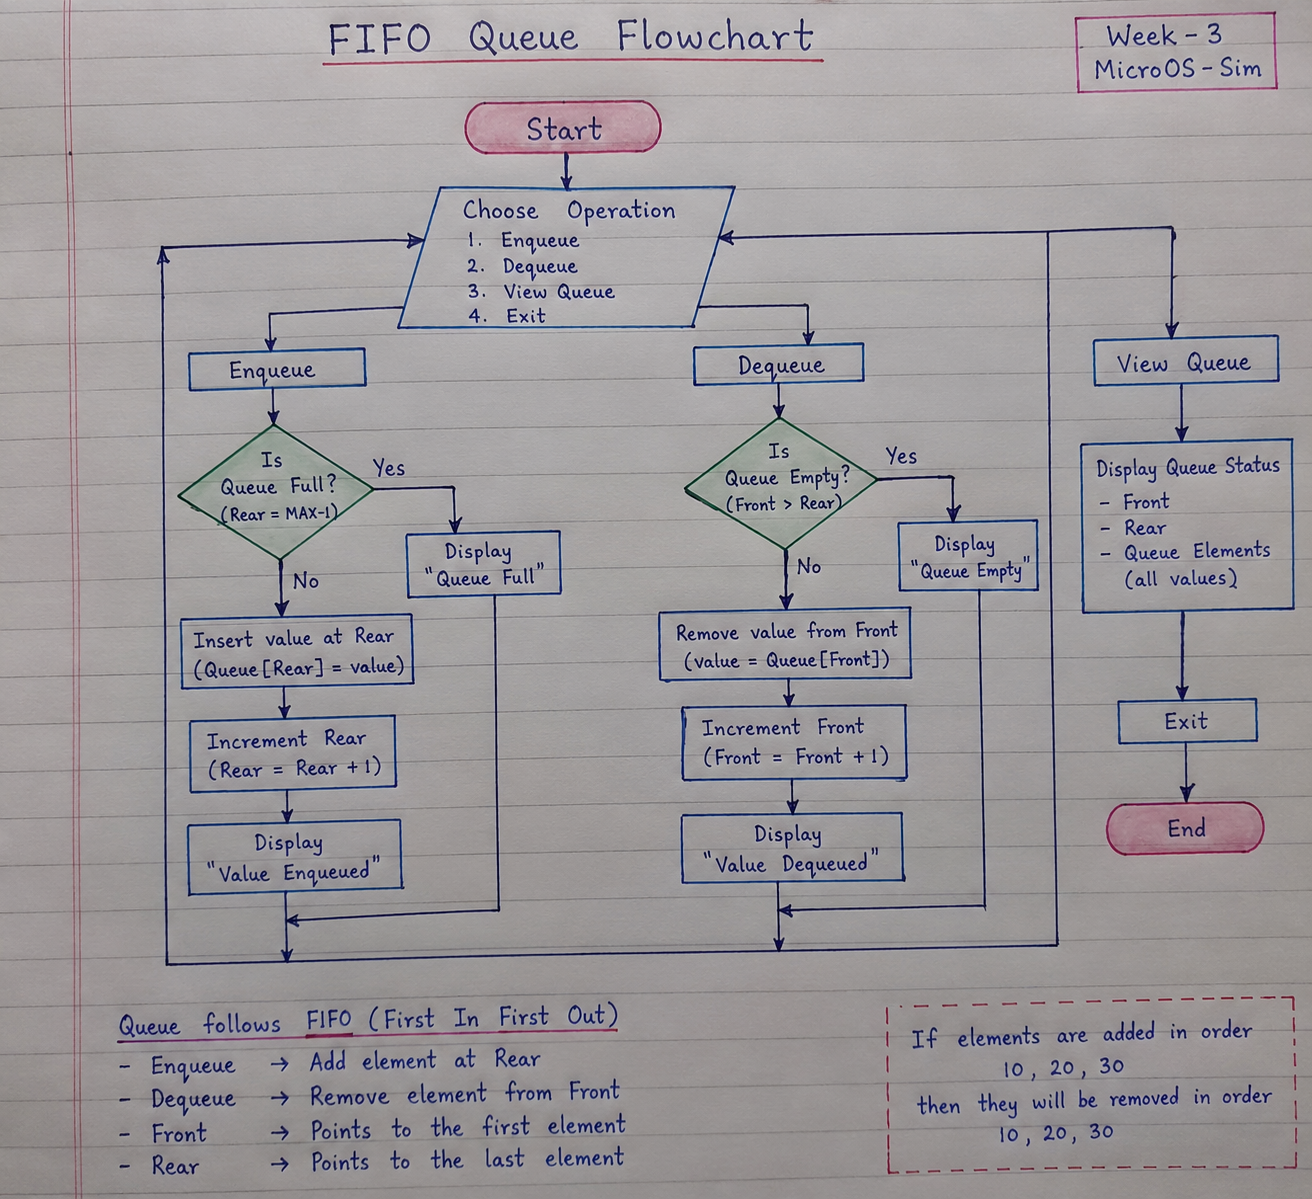
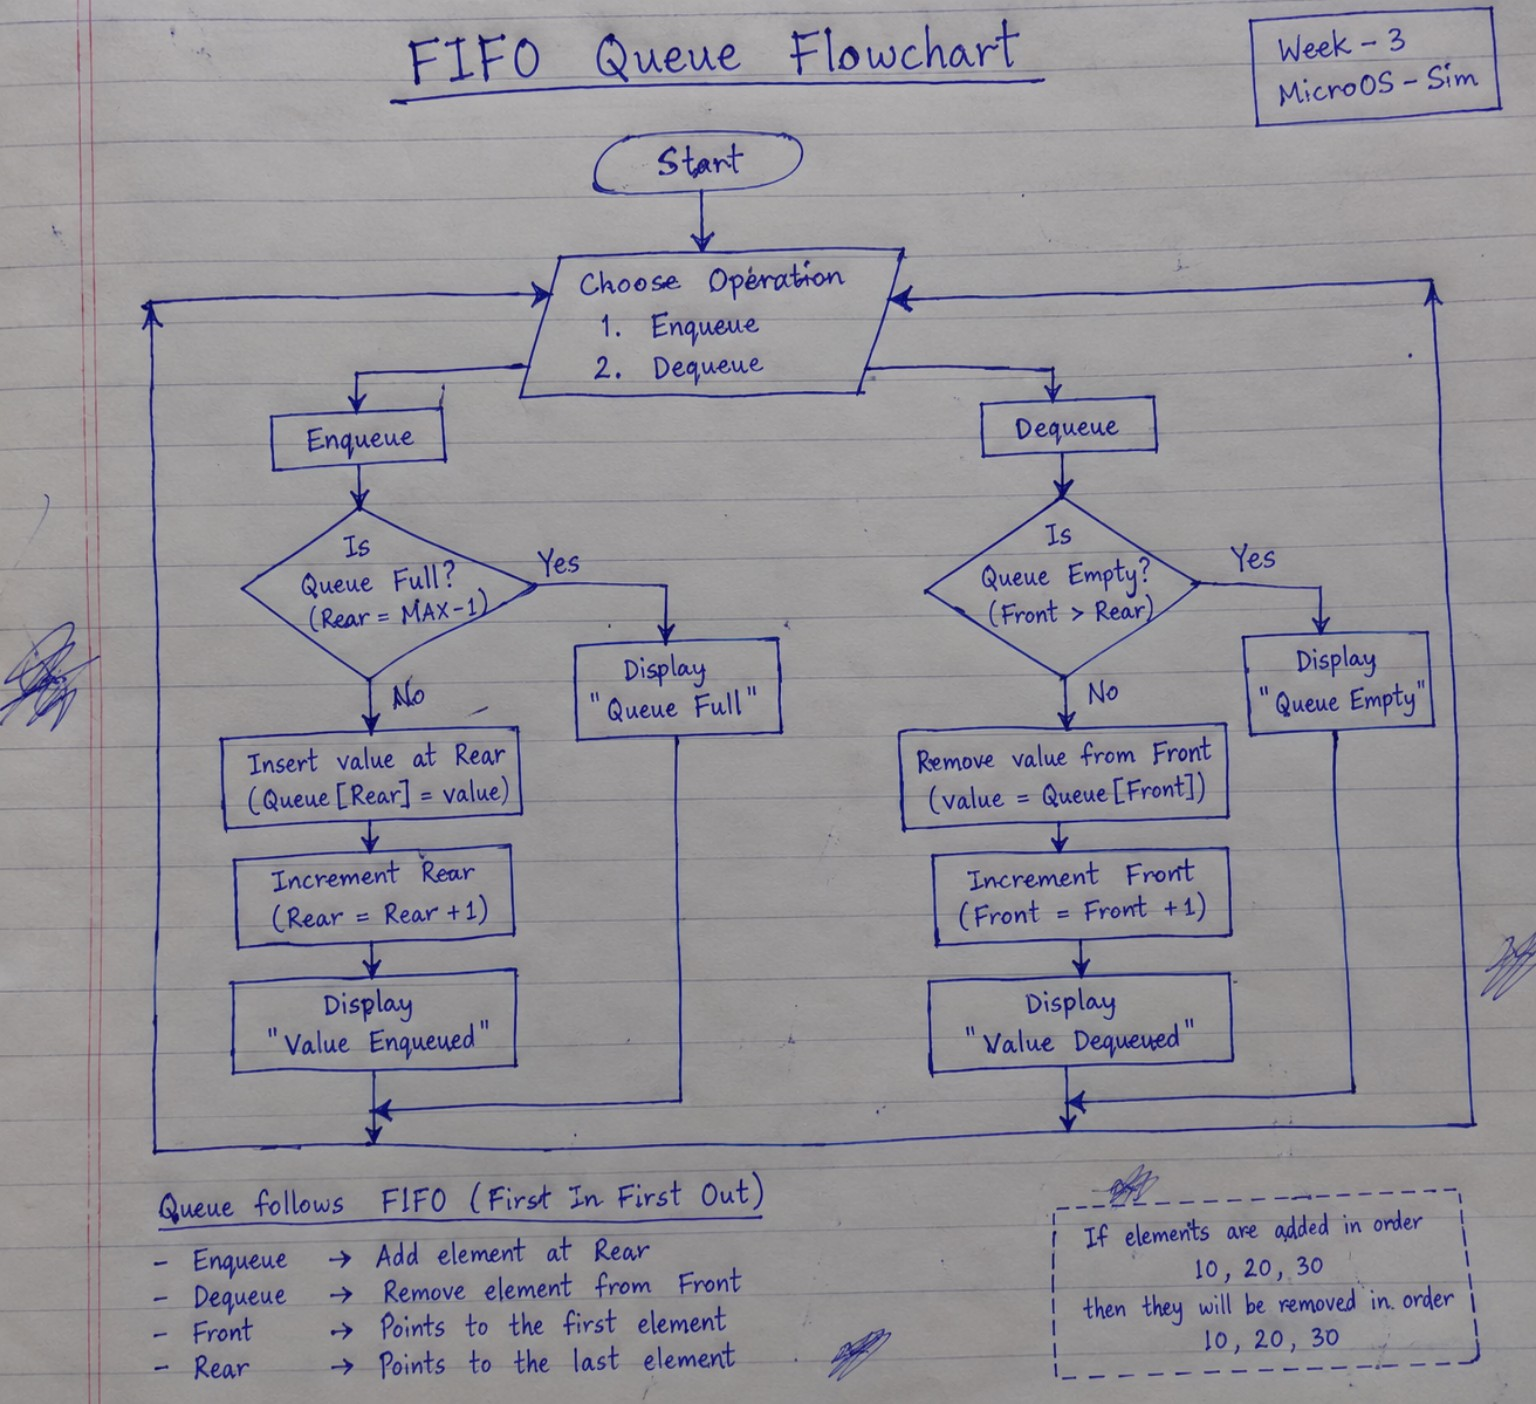
Update Week 3 files

diff --git a/tests/QueueTest.java b/tests/QueueTest.java
@@ -1,0 +1,14 @@
+public class QueueTest {
+    public static void main(String[] args) {
+        Queue queue = new Queue(3);
+        queue.enqueue(10); queue.enqueue(20); queue.enqueue(30);
+        if (!queue.isFull()) throw new AssertionError("Full condition failed");
+        if (queue.dequeue() != 10) throw new AssertionError("FIFO #1 failed");
+        if (queue.dequeue() != 20) throw new AssertionError("FIFO #2 failed");
+        if (queue.dequeue() != 30) throw new AssertionError("FIFO #3 failed");
+        if (!queue.isEmpty()) throw new AssertionError("Empty condition failed");
+        System.out.println("TC05 Enqueue / Full : PASS");
+        System.out.println("TC06 Dequeue / FIFO : PASS");
+        System.out.println("TC07 Empty condition : PASS");
+    }
+}

diff --git a/tests/StackTest.java b/tests/StackTest.java
@@ -1,0 +1,14 @@
+public class StackTest {
+    public static void main(String[] args) {
+        CPU cpu = new CPU();
+        Memory memory = new Memory();
+        Stack stack = new Stack(memory, cpu);
+        stack.push(0x10);
+        stack.push(0x20);
+        if (stack.pop() != 0x20) throw new AssertionError("LIFO #1 failed");
+        if (stack.pop() != 0x10) throw new AssertionError("LIFO #2 failed");
+        if (cpu.getSP() != 0x07) throw new AssertionError("SP failed");
+        System.out.println("TC03 PUSH/POP LIFO : PASS");
+        System.out.println("TC04 Stack Pointer : PASS");
+    }
+}

diff --git a/tests/MemoryTest.java b/tests/MemoryTest.java
@@ -1,0 +1,11 @@
+public class MemoryTest {
+    public static void main(String[] args) {
+        Memory memory = new Memory();
+        memory.writeData(10, 0xAB);
+        if (memory.readData(10) != 0xAB) throw new AssertionError("Read/Write failed");
+        memory.reset();
+        if (memory.readData(10) != 0) throw new AssertionError("Reset failed");
+        System.out.println("TC01 Memory Write/Read : PASS");
+        System.out.println("TC02 Memory Reset      : PASS");
+    }
+}

diff --git a/WEEK-3 README.md b/WEEK-3 README.md
@@ -1,53 +1,23 @@
-# STC89C52 MicroOS Simulator – Week 3
+# Week 3 – STC89C52 Microcontroller Simulator
 
-Week 3 enhances the completed Week 2 simulator with **Memory, Stack and FIFO Queue** functionality. Existing Week 2 instructions are retained; this README focuses on the four new Week 3 instructions and how they execute in our simulator.
+Week 3 adds **Memory Read/Write, Stack and FIFO Queue** to the Week 2 simulator. The old instructions are still supported.
 
-## Week 3 New Functionality
+## New Instructions
 
-- Memory Read/Write and reset support
-- Stack Pointer (SP)
-- PUSH and POP operations
-- Fixed-size FIFO Queue
-- ENQUEUE and DEQUEUE operations
-- Empty/full handling and status updates
-- UI display for Memory, Stack/SP and Queue
-- Queue flowchart
-- Processor-specific Assembly validation
-- Week 3 testing and documentation
+### PUSH
+Adds a value to the top of the stack and updates the Stack Pointer (SP).
 
----
-
-# New Week 3 Instructions
-
-## 1. PUSH
-
-### Definition
-`PUSH` adds a value to the **top of the Stack**. The Stack Pointer (SP) is updated so that it points to the new top of the stack.
-
-### Example
 ```text
 MOV A,#10
 PUSH A
 END
 ```
 
-### How it executes in our simulator
-1. `MOV A,#10` places `10` in the accumulator.
-2. The CPU reads and executes `PUSH A`.
-3. The value `10` is stored on the Stack.
-4. SP is updated to the new stack position.
-5. The UI/trace shows the updated Stack and SP.
+When the program runs, `10` is stored in the stack and SP changes to the new top position.
 
-![PUSH output](images/week3-instructions/PUSH-POP.png)
+### POP
+Removes the top value from the stack. This follows **LIFO (Last In, First Out)**.
 
----
-
-## 2. POP
-
-### Definition
-`POP` removes/retrieves the value from the **top of the Stack**. After the operation, SP is updated to the previous stack position.
-
-### Example
 ```text
 MOV A,#10
 PUSH A
@@ -58,30 +28,11 @@ POP R1
 END
 ```
 
-### How it executes in our simulator
-1. `10` is pushed onto the Stack.
-2. `20` is pushed after it, so `20` becomes the top value.
-3. `POP R0` removes the top value and stores `20` in `R0`.
-4. `POP R1` removes the next value and stores `10` in `R1`.
-5. SP is updated after each POP.
-6. The result demonstrates **LIFO – Last-In, First-Out**.
+Result: `R0 = 20`, `R1 = 10`.
 
-Expected result:
-```text
-R0 = 14H (20)
-R1 = 0AH (10)
-```
+### ENQUEUE
+Adds a value to the rear of the FIFO queue.
 
-![POP output](images/week3-instructions/PUSH-POP.png)
-
----
-
-## 3. ENQUEUE
-
-### Definition
-`ENQUEUE` adds a new value to the **rear of the FIFO Queue**.
-
-### Example
 ```text
 ENQUEUE #10
 ENQUEUE #20
@@ -89,30 +40,11 @@ ENQUEUE #30
 END
 ```
 
-### How it executes in our simulator
-1. The simulator reads `ENQUEUE #10`.
-2. `10` is inserted at the rear of the Queue.
-3. `20` is then inserted after `10`.
-4. `30` is inserted after `20`.
-5. Queue status and contents are updated in the UI.
+Queue becomes: `10 → 20 → 30`.
 
-Queue state:
-```text
-FRONT → [10] [20] [30] ← REAR
-```
+### DEQUEUE
+Removes a value from the front of the FIFO queue. This follows **FIFO (First In, First Out)**.
 
-If the Queue is full, the enqueue operation is rejected and the Queue status reports the full condition.
-
-![ENQUEUE output](images/week3-instructions/ENQUEUE-DEQUEUE.png)
-
----
-
-## 4. DEQUEUE
-
-### Definition
-`DEQUEUE` removes a value from the **front of the FIFO Queue**.
-
-### Example
 ```text
 ENQUEUE #10
 ENQUEUE #20
@@ -123,135 +55,60 @@ DEQUEUE A
 END
 ```
 
-### How it executes in our simulator
-1. `10`, `20` and `30` are inserted into the Queue in that order.
-2. `DEQUEUE R0` removes the front value `10` and stores it in `R0`.
-3. `DEQUEUE R1` removes `20` and stores it in `R1`.
-4. `DEQUEUE A` removes `30` and stores it in the accumulator.
-5. Queue contents and status are updated after every operation.
-6. The result demonstrates **FIFO – First-In, First-Out**.
+Result: `R0 = 10`, `R1 = 20`, `A = 30`.
 
-Expected result:
-```text
-R0 = 0AH (10)
-R1 = 14H (20)
-A  = 1EH (30)
+## How to Run in VS Code
+
+Open the project folder in VS Code and open the terminal.
+
+### Run the simulator
+
+```bash
+javac src/*.java
+java -cp src Main
 ```
 
-![DEQUEUE output](images/week3-instructions/ENQUEUE-DEQUEUE.png)
+### Run the Week 3 tests
 
----
-
-# PUSH/POP vs ENQUEUE/DEQUEUE
-
-| Stack | Queue |
-|---|---|
-| `PUSH` adds at the top | `ENQUEUE` adds at the rear |
-| `POP` removes from the top | `DEQUEUE` removes from the front |
-| Follows LIFO | Follows FIFO |
-| Uses Stack Pointer (SP) | Uses front/rear queue positions |
-
----
-
-# How to Execute Week 3 Instructions in the Project
-
-1. Open the simulator using the normal Java run command.
-2. Enter the Assembly/program instructions in the **Source Editor**.
-3. Use **Run** to execute the complete program, or **Step** to execute instructions one at a time.
-4. The simulator parses the instruction and sends it through the CPU/simulator execution flow.
-5. For `PUSH`/`POP`, the Stack and SP are updated.
-6. For `ENQUEUE`/`DEQUEUE`, the FIFO Queue and its status are updated.
-7. The updated state is shown in the UI and execution trace.
-8. Use **Reset** to clear the current execution state before another test.
-
-### Example: Testing FIFO
-
-Enter:
-```text
-ENQUEUE #10
-ENQUEUE #20
-ENQUEUE #30
-DEQUEUE R0
-DEQUEUE R1
-DEQUEUE A
-END
+```bash
+javac src/*.java tests/Week3MemoryStackQueueTest.java
+java -cp src:tests Week3MemoryStackQueueTest
 ```
 
-Run the program.
+On Windows, use `;` instead of `:` in the classpath:
 
-The expected output is:
-```text
-First dequeue  → 10
-Second dequeue → 20
-Third dequeue  → 30
+```bat
+java -cp src;tests Week3MemoryStackQueueTest
 ```
 
-If the simulator produces the same order, the FIFO implementation is working correctly.
+### Using the simulator
 
----
+1. Enter the Assembly program in the top-left editor.
+2. Click **LOAD**.
+3. Use **STEP** to execute one instruction at a time, or **RUN** to execute the program.
+4. Check the CPU/Stack/FIFO Queue state and execution trace.
+5. Use **RESET** before running another test.
 
-# Queue Flowchart
+## Queue Flowchart
 
-The Week 3 flowchart must include:
+The handwritten Queue flowchart used for Week 3:
 
-- Start
-- Enqueue operation
-- Full condition
-- Dequeue operation
-- Empty condition
-- Queue status/update
-- End
+![Handwritten FIFO Queue Flowchart](images/week3-flowchart/queue-flowchart-handwritten.png)
 
-The detailed flow is documented in [`Docs/Week-3/QUEUE_FLOWCHART.md`](Docs/Week-3/QUEUE_FLOWCHART.md). The final handwritten flowchart evidence is included below.
+It covers Enqueue, Dequeue, Queue Full, Queue Empty, status/update and the FIFO order.
 
-![Handwritten Queue Flowchart](images/week3-flowchart/queue-flowchart-handwritten.png)
+## Queue Assembly Validation
 
----
-
-# Assembly Validation
-
-The processor-specific Queue validation program is available at:
+Validation program:
 
 `programs/week3_queue_validation.txt`
 
-It demonstrates multiple Enqueue and Dequeue operations and checks the expected FIFO order against the actual simulator result.
+It performs multiple Enqueue and Dequeue operations and checks that values leave the queue in the same order they entered.
 
----
+## Week 3 Documentation
 
-# Week 3 Testing
-
-Week 3 testing covers:
-
-- Memory Read/Write
-- Stack PUSH/POP
-- Stack Pointer updates
-- Queue Enqueue/Dequeue
-- FIFO ordering
-- Empty Queue condition
-- Full Queue condition
-- Integration with the existing simulator
-
-Automated Week 3 tests can be run with:
-
-```bash
-cd src
-javac *.java
-cd ../tests
-javac -cp ../src Week3MemoryStackQueueTest.java
-java -cp ../src:. Week3MemoryStackQueueTest
-```
-
-Expected output:
-```text
-All Week 3 tests passed.
-```
-
----
-
-# Project Documentation
-
-- `Docs/README.md` – purpose/use of each important project file
-- `Docs/Meeting/` – meeting minutes and action items
-- `Docs/weekly-status/` – weekly progress reports
-- `Docs/decisions/` – technical/project decisions
-- `Docs/Week-3/` – Week 3 flowchart and status
+- `Docs/README.md` – what the main project files are used for
+- `Docs/Week-3/` – Week 3 flowchart/status notes
+- `Docs/Meeting/` – meeting records
+- `Docs/weekly-status/` – weekly progress
+- `Docs/decisions/` – project decisions
